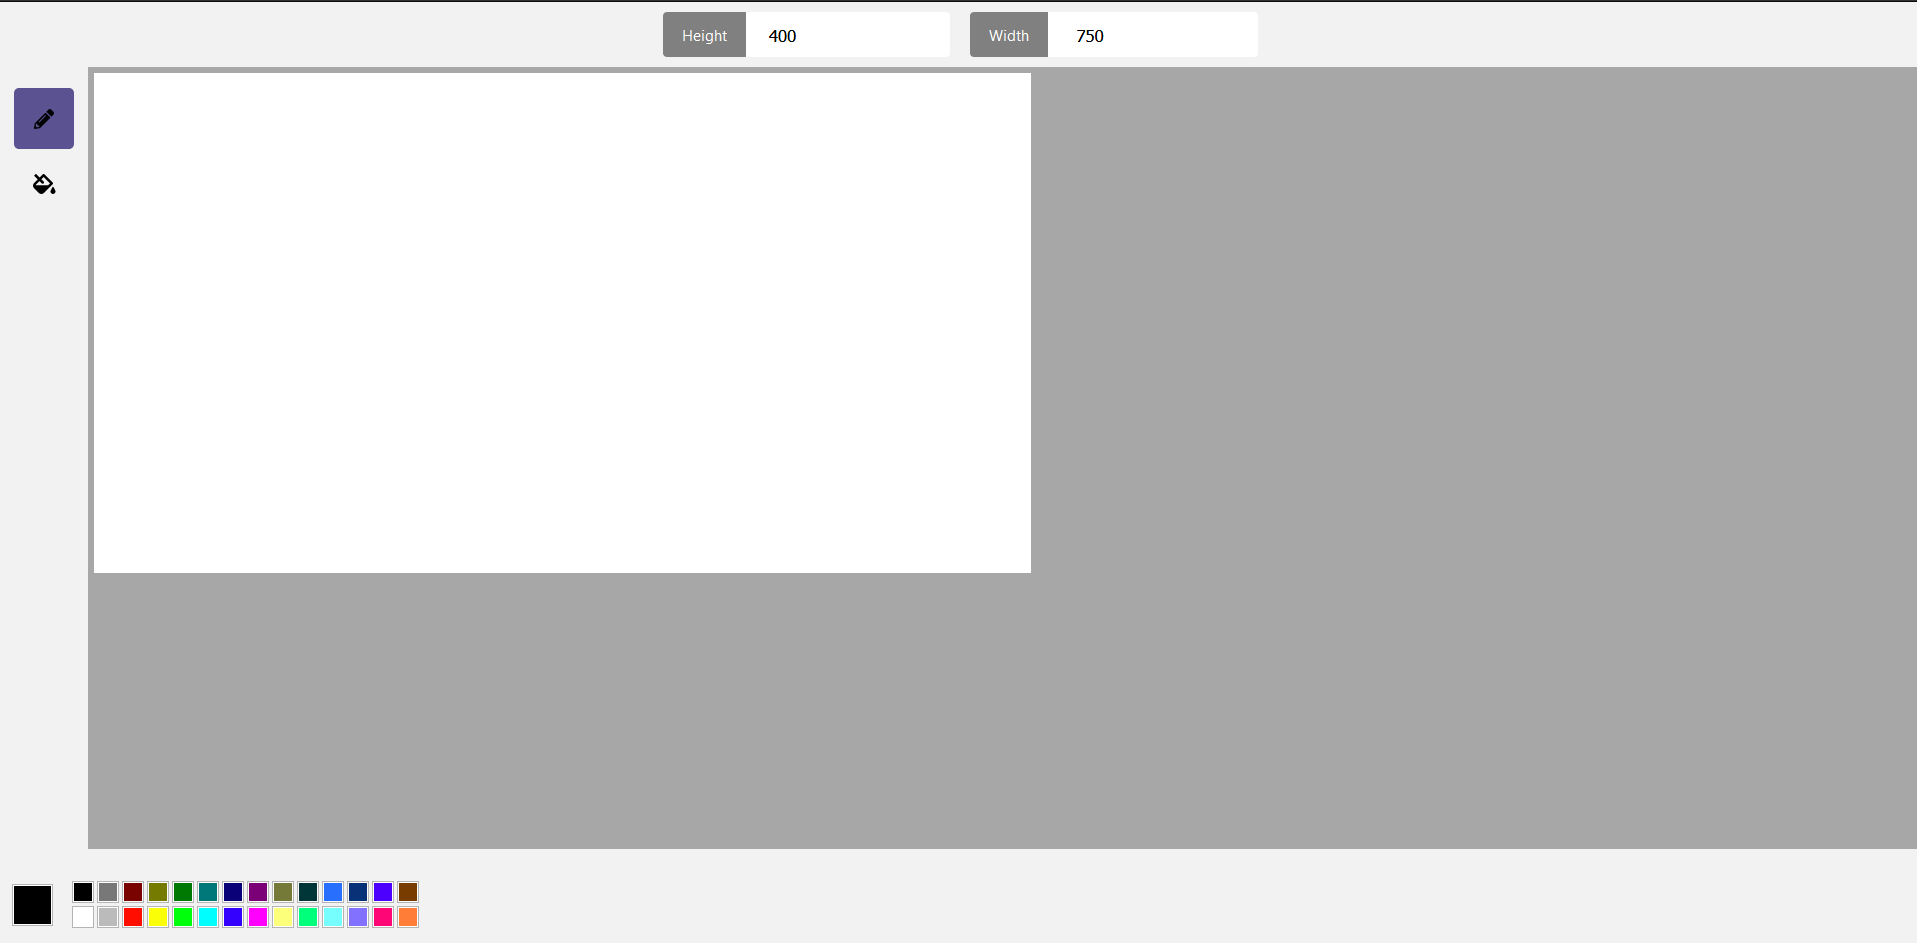
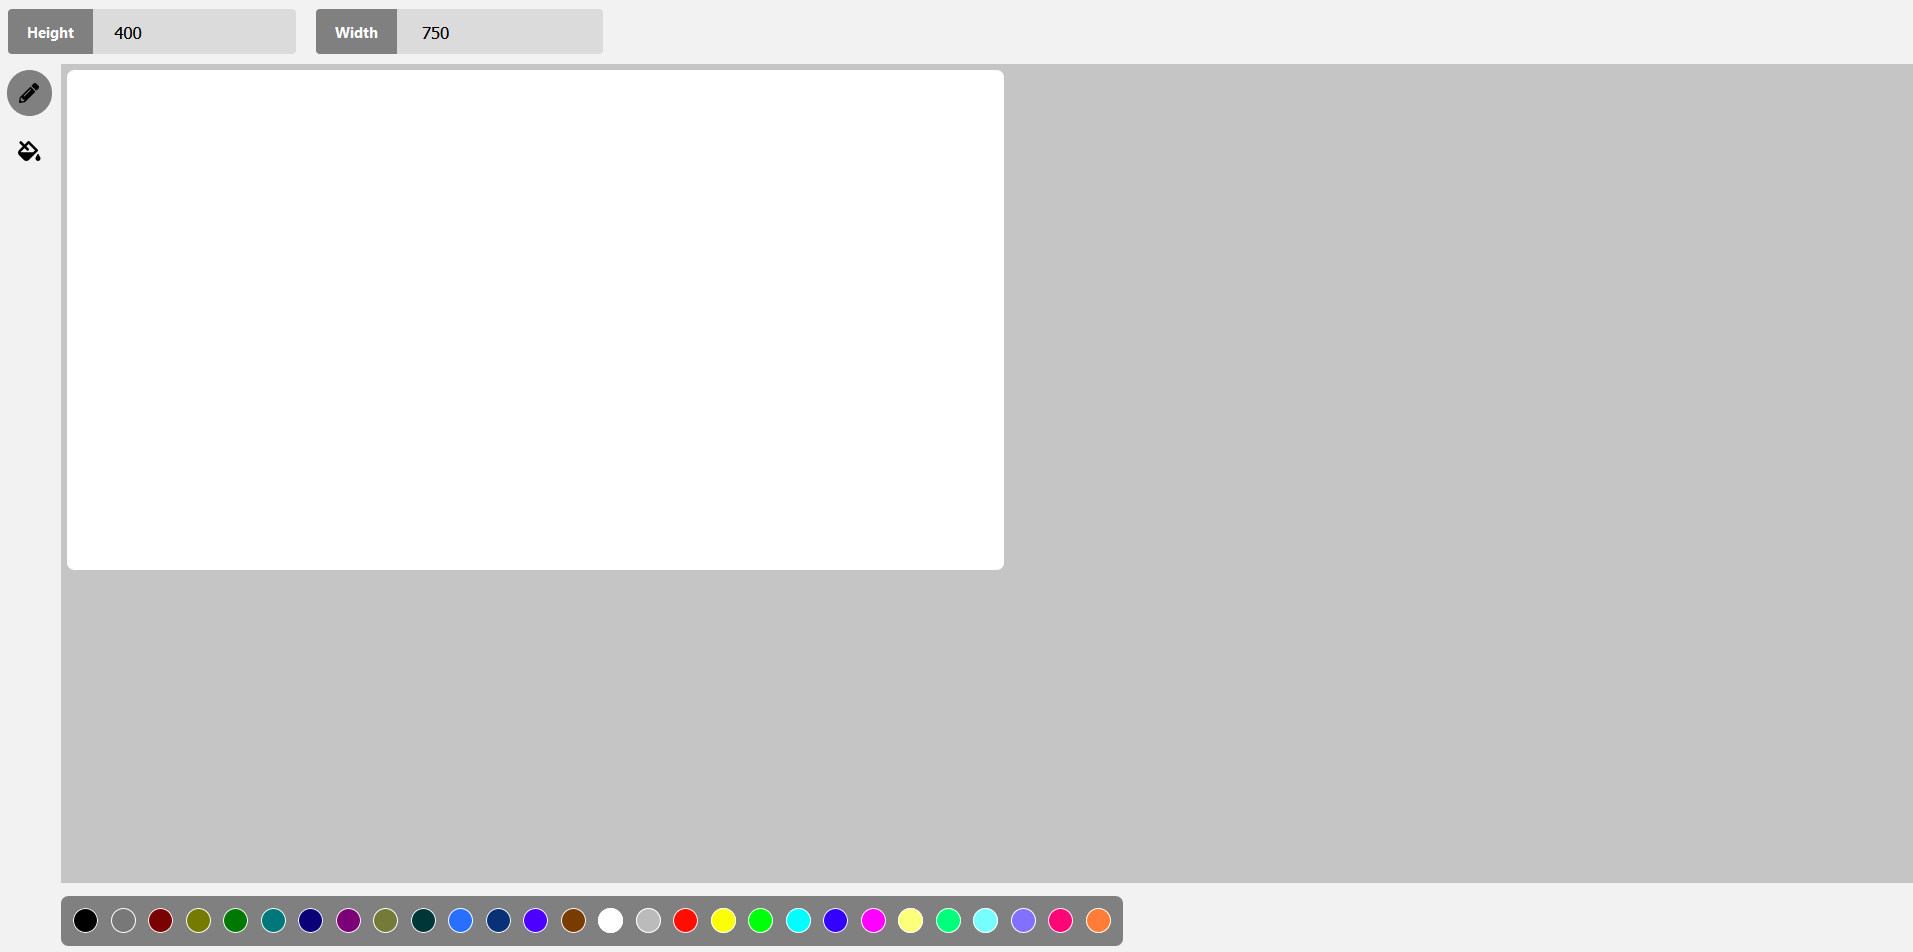
fixed styling issues

diff --git a/src/styles/canvas.scss b/src/styles/canvas.scss
@@ -7,11 +7,12 @@
 .canvas {
   flex: 1;
   padding: 5px;
-  background-color: #a7a7a7;
+  background-color: #c5c5c5;
 
   .canvas-actual {
     cursor: crosshair;
     background-color: white;
+    border-radius: 0.5em;
   }
 
   .canvas-overlay {
@@ -31,11 +32,11 @@ input {
 }
 
 .row {
-  max-width: 800px;
+  // max-width: 800px;
   margin: 0 auto;
   color: #fff;
-  text-align: center;
-  
+  // text-align: center;
+
   .col {
     position: relative;
     display: inline-block;
@@ -47,11 +48,11 @@ input {
   width: 215px;
   padding: 10px 0 10px 15px;
   font-weight: 400;
-  background: white;
+  background: #dbdbdb;
   border: 0;
   border-radius: 3px;
   text-indent: 70px;
-  
+
   + label {
     display: inline-block;
     position: absolute;
@@ -62,6 +63,7 @@ input {
     border-top-left-radius: 3px;
     border-bottom-left-radius: 3px;
     overflow: hidden;
-      background: gray;
+    background: gray;
+    font-weight: bold;
   }
 }

diff --git a/src/styles/colorpicker.scss b/src/styles/colorpicker.scss
@@ -1,18 +1,19 @@
 .color-panel {
-  height: 80px;
   display: flex;
-  align-content: center;
+  align-content: flex-start;
   padding: 5px;
   flex-wrap: wrap;
-  width: 290px;
+  background-color: gray;
+  border-radius: 0.5em;
+  margin: 10px 0 10px  50px;
 
   .color {
     border: 1px solid white;
-    outline: 1px solid rgb(180, 180, 180);
+    border-radius: 1em;
     box-sizing: border-box;
-    height: 16px;
-    width: 16px;
-    margin: 2px;
+    height: 20px;
+    width: 20px;
+    margin: 5px;
     transition: transform 0.2s;
 
     &:hover {
@@ -20,12 +21,4 @@
       transition: transform 0.2s;
     }
   }
-}
-
-.color-selected {
-  width: 30px;
-  height: 30px;
-  margin: 10px;
-  border: 1px solid white;
-  outline: 1px solid rgb(180, 180, 180);
 }

diff --git a/src/styles/toolbar.scss b/src/styles/toolbar.scss
@@ -1,7 +1,7 @@
 .toolbar {
   box-sizing: border-box;
-  width: 70px;
-  padding: 15px;
+  width: 50px;
+//   padding: 15px;
   display: flex;
   flex-wrap: wrap;
   align-content: flex-start;
@@ -9,11 +9,11 @@
 }
 
 .button {
-  border-radius: 4px;
+  border-radius: 2em;
   transition: all 0.2s;
-  padding: 16px;
+  padding: 10px;
   box-sizing: border-box;
-  margin: 2px;
+  margin: 5px;
 
   &:hover {
     background-color: white;
@@ -28,6 +28,6 @@
   }
 
   &.selected {
-    background-color: rgb(91, 82, 145);
+    background-color: gray;
   }
 }

diff --git a/src/App.js b/src/App.js
@@ -1,6 +1,6 @@
 import React, { Component } from "react";
 
-import Content from "./components/Canvas";
+import Canvas from "./components/Canvas";
 import ColorPanel from "./components/ColorPicker";
 
 const defaultColor = "black";
@@ -34,7 +34,7 @@ class App extends Component {
   render() {
     return (
       <React.Fragment>
-        <Content
+        <Canvas
           items={this.state.toolbarItems}
           activeItem={this.state.selectedItem}
           handleClick={this.changeTool}

diff --git a/src/components/ColorPicker.js b/src/components/ColorPicker.js
@@ -77,9 +77,8 @@ class ColorPicker extends Component {
 
     return (
       <div style={{ display: "flex", alignItems: "center" }}>
-        <SelectedColor color={this.props.selectedColor} />
+        {/* <SelectedColor color={this.props.selectedColor} /> */}
         <div className="color-panel">{colorItems}</div>
-        
       </div>
     );
   }

diff --git a/src/components/Canvas.js b/src/components/Canvas.js
@@ -120,8 +120,7 @@ class Canvas extends Component {
                 onChange={this.handleWidthChange}
                 required
               />
-              <label for="canvas-width">Width</label>
-              <span class="underline"></span>
+              <label>Width</label>
             </div>
           </div>
         </form>
